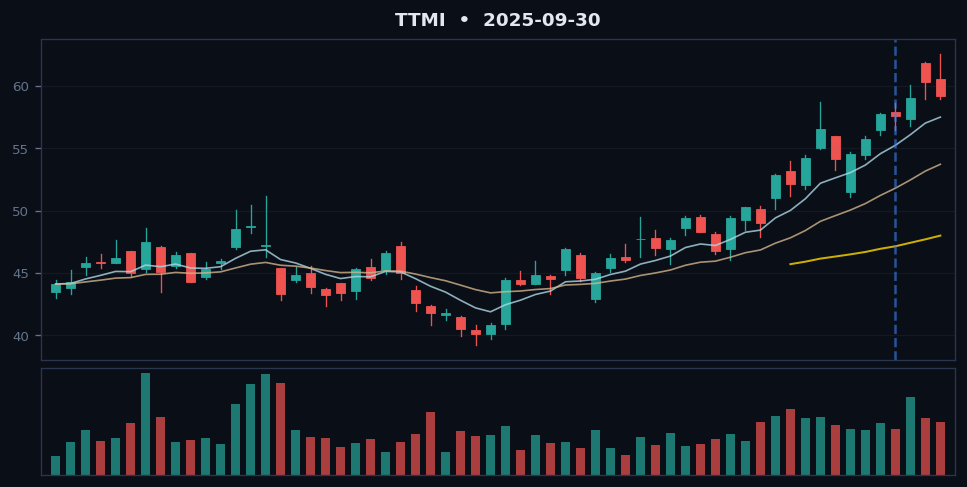
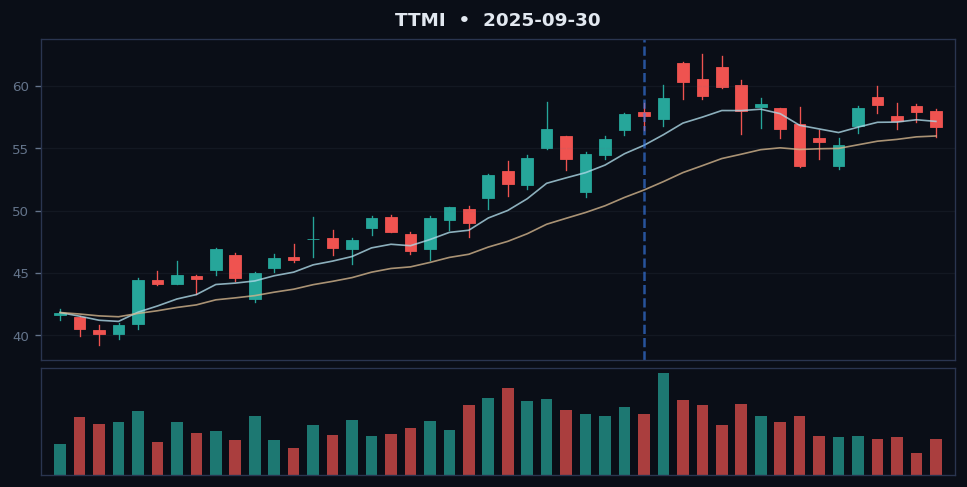
Center charts on entry date (30 days before, 30 after)

diff --git a/server.py b/server.py
@@ -81,10 +81,24 @@ def generate_chart_image(df: pd.DataFrame, ticker: str, entry_date: str,
     df["Date"] = pd.to_datetime(df["Date"])
     df = df.sort_values("Date").reset_index(drop=True)
 
-    # Trim to ~120 trading days ending near entry date
+    # Center on entry date: 30 days before, 30 days after
     entry_dt = pd.Timestamp(entry_date)
-    mask = df["Date"] <= entry_dt + timedelta(days=5)
-    chart_df = df[mask].tail(60).copy().reset_index(drop=True)
+    entry_rows = df[df["Date"] == entry_dt]
+    if entry_rows.empty:
+        # Find closest date
+        before = df[df["Date"] <= entry_dt]
+        if before.empty:
+            return None
+        entry_idx = before.index[-1]
+    else:
+        entry_idx = entry_rows.index[0]
+
+    start_idx = max(0, entry_idx - 30)
+    end_idx = min(len(df), entry_idx + 31)
+    chart_df = df.iloc[start_idx:end_idx].copy().reset_index(drop=True)
+
+    # Recalculate entry position in trimmed df
+    entry_pos = entry_idx - start_idx
 
     if chart_df.empty:
         return None
@@ -126,10 +140,7 @@ def generate_chart_image(df: pd.DataFrame, ticker: str, entry_date: str,
             ax.plot(range(n), s.values, color=color, linewidth=lw, alpha=0.8)
 
     # Entry date marker
-    entry_rows = chart_df[chart_df["Date"] == entry_dt]
-    if not entry_rows.empty:
-        eidx = entry_rows.index[0]
-        ax.axvline(x=eidx, color="#3b82f6", linewidth=1.5, alpha=0.6, linestyle="--")
+    ax.axvline(x=entry_pos, color="#3b82f6", linewidth=1.5, alpha=0.6, linestyle="--")
 
     # Styling
     ax.set_title(f"{ticker}  •  {entry_date}", color="#e2e8f0", fontsize=11,
